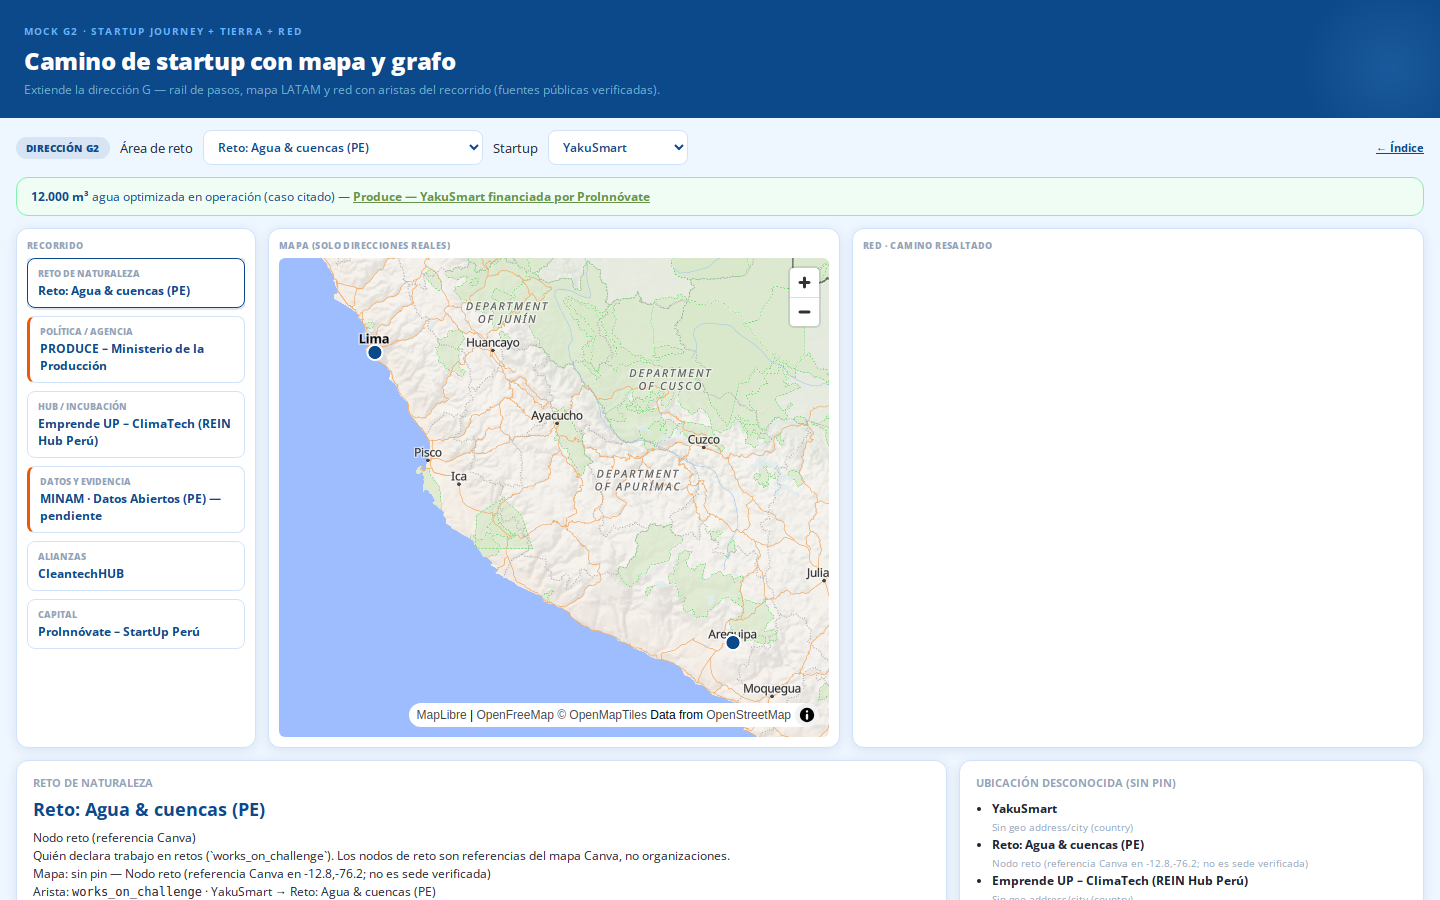
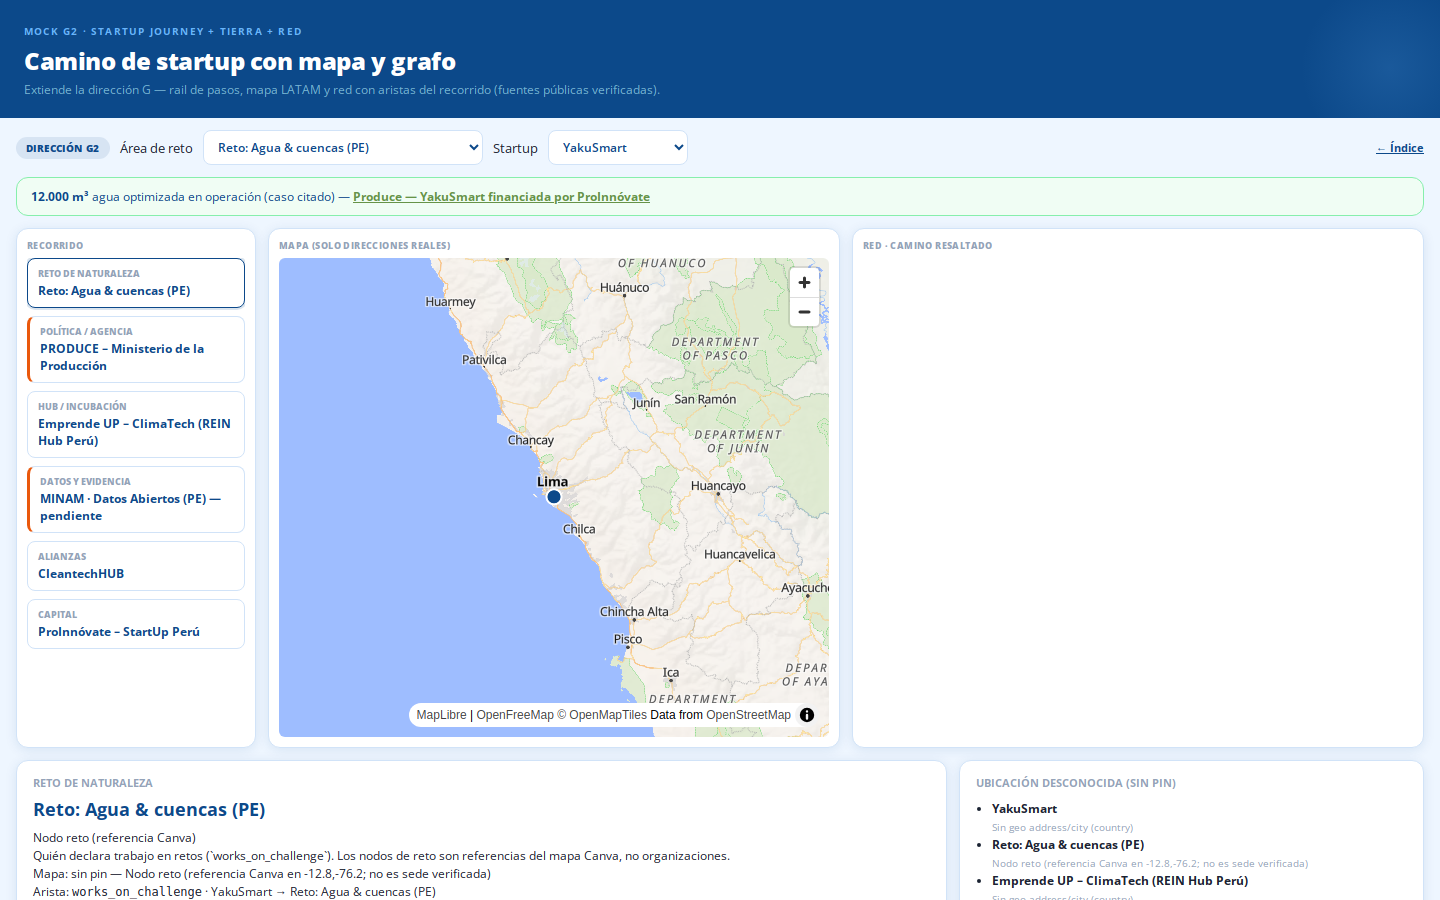
G2: defer Sigma until container sized; assert graph in Playwright
ResizeObserver + queued build fixes blank relation panel in screenshots.
Block CleantechHUB Arequipa pin; wait for g2-sigma-ready before capture.

Changed region(s): [[0.2188, 0.28, 0.5938, 0.84], [0.5625, 0.28, 0.5938, 0.3111]]

diff --git a/static/ecosystem/mock/story-directions/g2/index.html b/static/ecosystem/mock/story-directions/g2/index.html
@@ -72,6 +72,7 @@
 
     const root = document.querySelector('[data-g2-root]');
     const api = bootJourneyG2(bundle, root);
+    window.__g2Mock = api;
 
     wireChallengeSelect(document.getElementById('mock-challenge-select'), bundle, () => {
       api.refresh();
